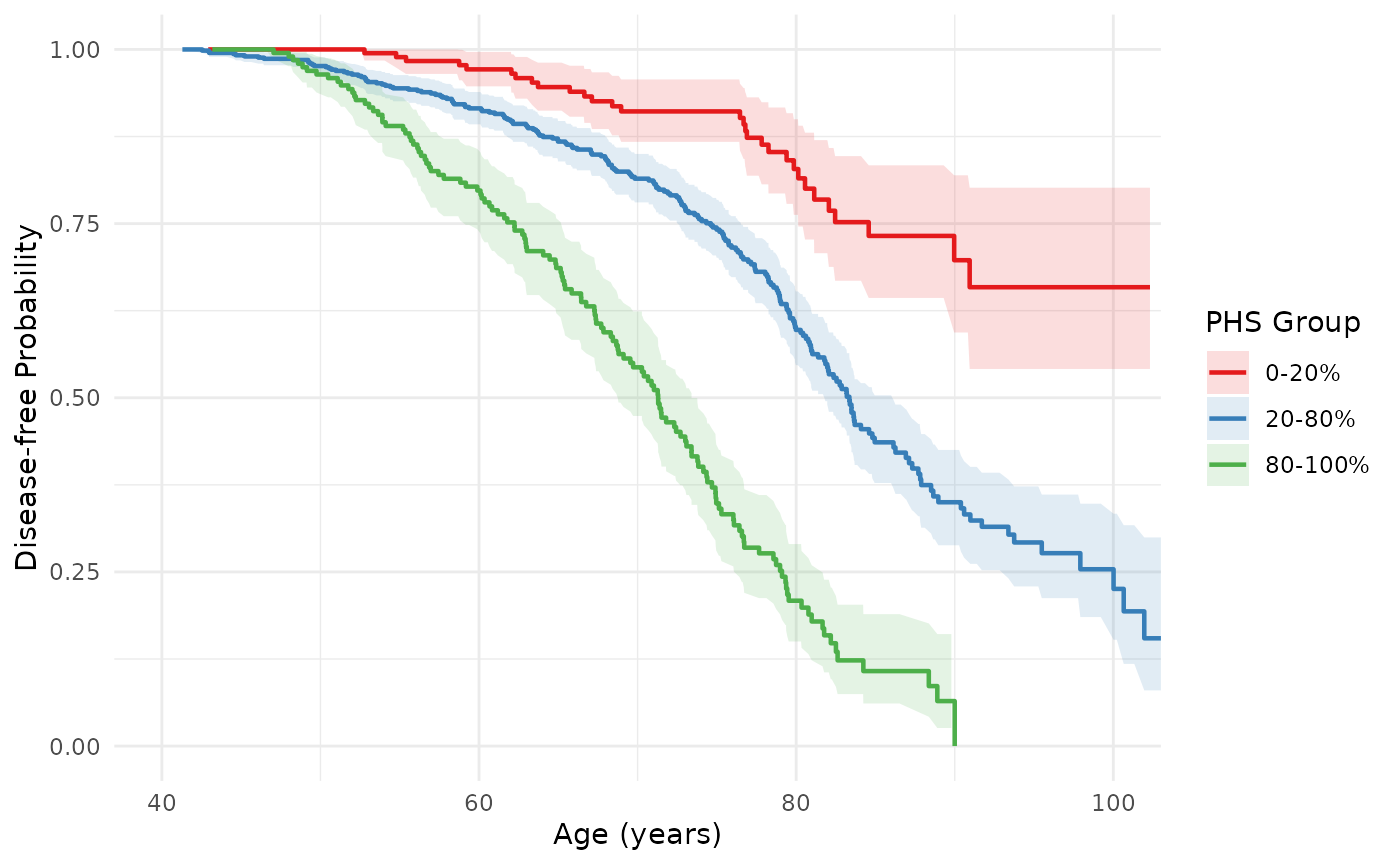
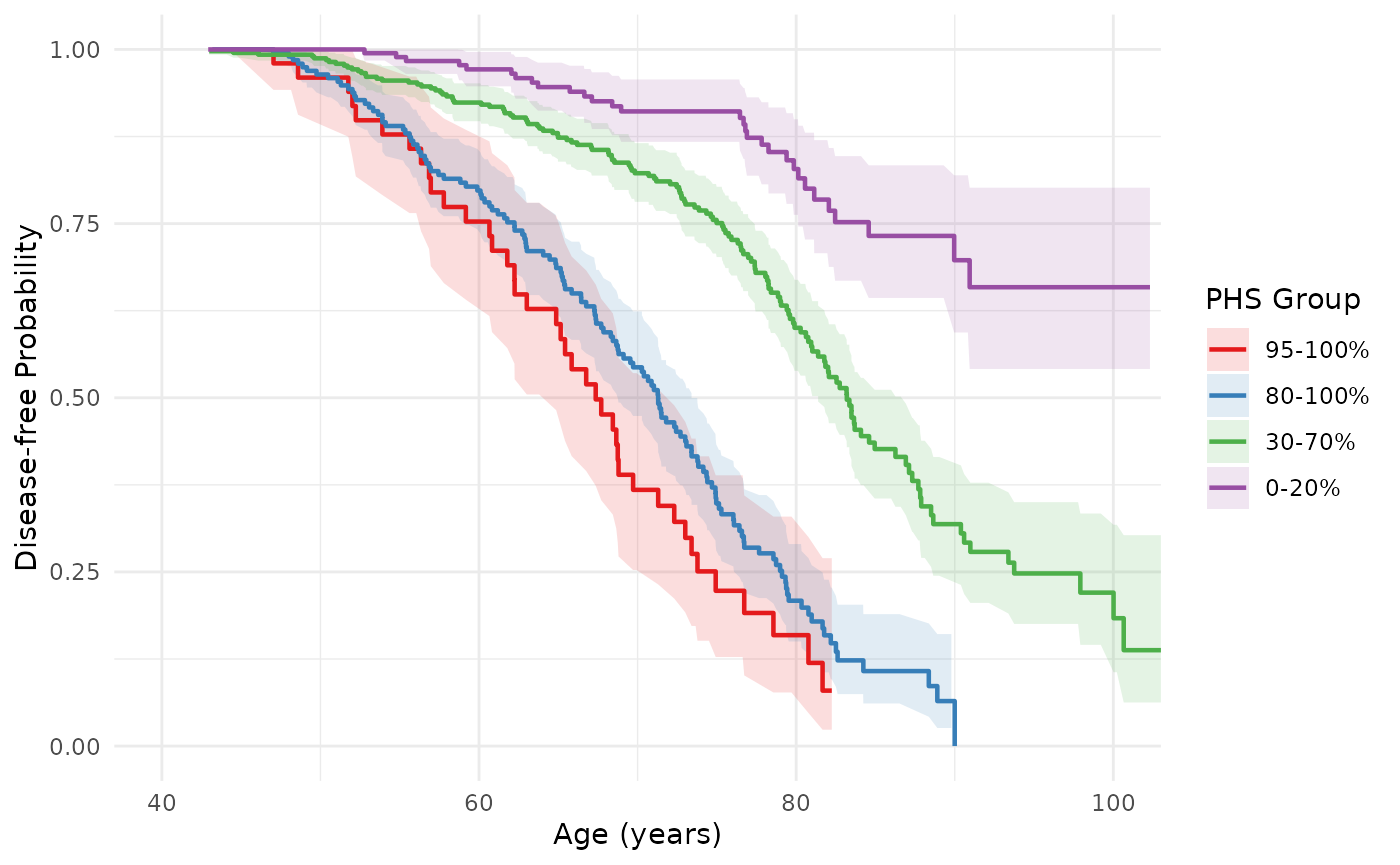
Deploying to gh-pages from @ amorris28/hazrd@0643f386ae270f6941bc75a752684a927d8e6229 🚀

diff --git a/index.html b/index.html
@@ -57,20 +57,20 @@
 <h2 id="installation">Installation<a class="anchor" aria-label="anchor" href="#installation"></a>
 </h2>
 <div class="section level3">
-<h3 id="github">Github<a class="anchor" aria-label="anchor" href="#github"></a>
+<h3 id="latest-release">Latest release<a class="anchor" aria-label="anchor" href="#latest-release"></a>
 </h3>
-<p>To install the most recent release from Github, go to the <a href="https://github.com/amorris28/hazrd/releases" class="external-link">release</a> page, scroll down to Assets, and download the “Source code (tar.gz)” file. Then, in <code>R</code>, run:</p>
+<p>Install the current stable release directly from GitHub:</p>
 <div class="sourceCode" id="cb1"><pre class="downlit sourceCode r">
-<code class="sourceCode R"><span><span class="fu"><a href="https://rdrr.io/r/utils/install.packages.html" class="external-link">install.packages</a></span><span class="op">(</span><span class="st">"hazrd-0.2.0.tar.gz"</span>, repos <span class="op">=</span> <span class="cn">NULL</span>, type <span class="op">=</span> <span class="st">"source"</span><span class="op">)</span></span></code></pre></div>
+<code class="sourceCode R"><span><span class="co"># install.packages("devtools")</span></span>
+<span><span class="fu">devtools</span><span class="fu">::</span><span class="fu">install_github</span><span class="op">(</span><span class="st">"amorris28/hazrd"</span><span class="op">)</span></span></code></pre></div>
+<p>Installing from the default (<code>main</code>) branch is equivalent to installing the latest tagged release.</p>
 </div>
 <div class="section level3">
-<h3 id="using-devtools">Using <code>devtools</code>
-<a class="anchor" aria-label="anchor" href="#using-devtools"></a>
+<h3 id="development-version">Development version<a class="anchor" aria-label="anchor" href="#development-version"></a>
 </h3>
-<p>For the development version:</p>
-<div class="sourceCode" id="cb2"><pre class="sourceCode bash"><code class="sourceCode bash"><span id="cb2-1"><a href="#cb2-1" tabindex="-1"></a><span class="fu">git</span> clone git@github.com:amorris28/hazrd.git</span></code></pre></div>
-<div class="sourceCode" id="cb3"><pre class="downlit sourceCode r">
-<code class="sourceCode R"><span><span class="fu">devtools</span><span class="fu">::</span><span class="fu">install</span><span class="op">(</span><span class="st">"hazrd"</span><span class="op">)</span></span></code></pre></div>
+<p>To get the current development version (may contain unreleased features):</p>
+<div class="sourceCode" id="cb2"><pre class="downlit sourceCode r">
+<code class="sourceCode R"><span><span class="fu">devtools</span><span class="fu">::</span><span class="fu">install_github</span><span class="op">(</span><span class="st">"amorris28/hazrd@dev"</span><span class="op">)</span></span></code></pre></div>
 </div>
 </div>
 <div class="section level2">
@@ -81,7 +81,7 @@
 <div class="section level2">
 <h2 id="quick-example">Quick example<a class="anchor" aria-label="anchor" href="#quick-example"></a>
 </h2>
-<div class="sourceCode" id="cb4"><pre class="downlit sourceCode r">
+<div class="sourceCode" id="cb3"><pre class="downlit sourceCode r">
 <code class="sourceCode R"><span><span class="kw"><a href="https://rdrr.io/r/base/library.html" class="external-link">library</a></span><span class="op">(</span><span class="va"><a href="https://amorris28.github.io/hazrd/">hazrd</a></span><span class="op">)</span></span>
 <span></span>
 <span><span class="co"># Compute HR, C-index, OR, and HR_SD in one call</span></span>

diff --git a/news/index.html b/news/index.html
@@ -40,7 +40,9 @@
 <ul><li>
 <code><a href="../reference/phs_metrics.html">phs_metrics()</a></code> — single entry point for all discrimination metrics (HR, C-index, OR, HR_SD). Returns a tidy tibble with one row per metric. Supports built-in bootstrapping via <code><a href="https://rdrr.io/pkg/boot/man/boot.html" class="external-link">boot::boot()</a></code> with <code>"percentile"</code>, <code>"bca"</code>, and <code>"normal"</code> CI methods.</li>
 <li>
-<code>phs_km()</code> — Kaplan-Meier curves stratified by PHS percentile group. Returns a <code>ggplot</code> object by default (<code>output = "plot"</code>) or a tidy data frame (<code>output = "data"</code>). Includes seven stratification presets (<code>quantile_3</code>, <code>quantile_4</code>, <code>quantile_5</code>, <code>quantile_10</code>, <code>clinical</code>, <code>binary_80_20</code>, <code>binary_top_bottom</code>) and a <code>custom_cuts</code> override. Supports a <code>ref_data</code> argument for train/validation percentile workflows.</li>
+<code><a href="../reference/phs_km_curve.html">phs_km_curve()</a></code> — Kaplan-Meier curves stratified by PHS percentile group. Returns a <code>ggplot</code> object by default (<code>output = "plot"</code>) or a tidy data frame (<code>output = "data"</code>). Accepts an <code>intervals</code> list for overlapping strata (e.g. 95–100 %, 80–100 %) or a <code>breaks</code> vector for exclusive bins. Supports a <code>ref_data</code> argument for train/validation percentile workflows.</li>
+<li>
+<code><a href="../reference/phs_cox_curve.html">phs_cox_curve()</a></code> — Cox model-based survival curves at specified PHS percentiles. Fits a Cox PH model with <code>phs</code> as the sole predictor and returns smooth predicted curves at user-supplied percentile values. Supports <code>ref_data</code> for train/validation workflows.</li>
 </ul></div>
 <div class="section level3">
 <h3 id="deprecated-functions-0-2-0">Deprecated functions<a class="anchor" aria-label="anchor" href="#deprecated-functions-0-2-0"></a></h3>
@@ -58,7 +60,7 @@
 <code><a href="../reference/get_hrsd.html">get_hrsd()</a></code> → use <code>phs_metrics(data, metrics = "HR_SD")</code>
 </li>
 <li>
-<code><a href="../reference/km_curve.html">km_curve()</a></code> → use <code>phs_km()</code>
+<code><a href="../reference/km_curve.html">km_curve()</a></code> → use <code><a href="../reference/phs_km_curve.html">phs_km_curve()</a></code>
 </li>
 </ul></div>
 <div class="section level3">

diff --git a/articles/hazrd.html b/articles/hazrd.html
@@ -275,13 +275,13 @@ custom plot or pass the survival estimates on to further analysis:</p>
 <div class="sourceCode" id="cb12"><pre class="downlit sourceCode r">
 <code class="sourceCode R"><span><span class="va">km_data</span> <span class="op">&lt;-</span> <span class="fu"><a href="../reference/phs_km_curve.html">phs_km_curve</a></span><span class="op">(</span><span class="va">test_data</span>, output <span class="op">=</span> <span class="st">"data"</span><span class="op">)</span></span>
 <span><span class="fu"><a href="https://rdrr.io/r/utils/head.html" class="external-link">head</a></span><span class="op">(</span><span class="va">km_data</span><span class="op">)</span></span>
-<span><span class="co">#&gt;       time estimate conf.low conf.high n.risk n.event stratum</span></span>
-<span><span class="co">#&gt; 1 42.92288        1        1         1    199       0   0-20%</span></span>
-<span><span class="co">#&gt; 2 43.64664        1        1         1    198       0   0-20%</span></span>
-<span><span class="co">#&gt; 3 44.88269        1        1         1    197       0   0-20%</span></span>
-<span><span class="co">#&gt; 4 47.17180        1        1         1    196       0   0-20%</span></span>
-<span><span class="co">#&gt; 5 48.21010        1        1         1    195       0   0-20%</span></span>
-<span><span class="co">#&gt; 6 48.52730        1        1         1    194       0   0-20%</span></span></code></pre></div>
+<span><span class="co">#&gt;       time  estimate  conf.low conf.high n.risk n.event stratum</span></span>
+<span><span class="co">#&gt; 1 44.30748 1.0000000 1.0000000 1.0000000     51       0 95-100%</span></span>
+<span><span class="co">#&gt; 2 47.04070 0.9800000 0.9419529 1.0000000     50       1 95-100%</span></span>
+<span><span class="co">#&gt; 3 48.14581 0.9800000 0.9419529 1.0000000     49       0 95-100%</span></span>
+<span><span class="co">#&gt; 4 48.58741 0.9595833 0.9062444 1.0000000     48       1 95-100%</span></span>
+<span><span class="co">#&gt; 5 51.75902 0.9391667 0.8747578 1.0000000     47       1 95-100%</span></span>
+<span><span class="co">#&gt; 6 52.01547 0.9187500 0.8454998 0.9983463     46       1 95-100%</span></span></code></pre></div>
 <p>The returned data frame has columns <code>time</code>,
 <code>estimate</code>, <code>conf.low</code>, <code>conf.high</code>,
 <code>n.risk</code>, <code>n.event</code>, and <code>stratum</code>,

diff --git a/news/index.md b/news/index.md
@@ -10,13 +10,18 @@
   built-in bootstrapping via
   [`boot::boot()`](https://rdrr.io/pkg/boot/man/boot.html) with
   `"percentile"`, `"bca"`, and `"normal"` CI methods.
-- `phs_km()` — Kaplan-Meier curves stratified by PHS percentile group.
-  Returns a `ggplot` object by default (`output = "plot"`) or a tidy
-  data frame (`output = "data"`). Includes seven stratification presets
-  (`quantile_3`, `quantile_4`, `quantile_5`, `quantile_10`, `clinical`,
-  `binary_80_20`, `binary_top_bottom`) and a `custom_cuts` override.
-  Supports a `ref_data` argument for train/validation percentile
+- [`phs_km_curve()`](https://amorris28.github.io/hazrd/reference/phs_km_curve.md)
+  — Kaplan-Meier curves stratified by PHS percentile group. Returns a
+  `ggplot` object by default (`output = "plot"`) or a tidy data frame
+  (`output = "data"`). Accepts an `intervals` list for overlapping
+  strata (e.g. 95–100 %, 80–100 %) or a `breaks` vector for exclusive
+  bins. Supports a `ref_data` argument for train/validation percentile
   workflows.
+- [`phs_cox_curve()`](https://amorris28.github.io/hazrd/reference/phs_cox_curve.md)
+  — Cox model-based survival curves at specified PHS percentiles. Fits a
+  Cox PH model with `phs` as the sole predictor and returns smooth
+  predicted curves at user-supplied percentile values. Supports
+  `ref_data` for train/validation workflows.
 
 ### Deprecated functions
 
@@ -33,7 +38,8 @@ to the replacement call.
 - [`get_hrsd()`](https://amorris28.github.io/hazrd/reference/get_hrsd.md)
   → use `phs_metrics(data, metrics = "HR_SD")`
 - [`km_curve()`](https://amorris28.github.io/hazrd/reference/km_curve.md)
-  → use `phs_km()`
+  → use
+  [`phs_km_curve()`](https://amorris28.github.io/hazrd/reference/phs_km_curve.md)
 
 ### Removed functions
 

diff --git a/articles/hazrd.md b/articles/hazrd.md
@@ -233,13 +233,13 @@ the survival estimates on to further analysis:
 ``` r
 km_data <- phs_km_curve(test_data, output = "data")
 head(km_data)
-#>       time estimate conf.low conf.high n.risk n.event stratum
-#> 1 42.92288        1        1         1    199       0   0-20%
-#> 2 43.64664        1        1         1    198       0   0-20%
-#> 3 44.88269        1        1         1    197       0   0-20%
-#> 4 47.17180        1        1         1    196       0   0-20%
-#> 5 48.21010        1        1         1    195       0   0-20%
-#> 6 48.52730        1        1         1    194       0   0-20%
+#>       time  estimate  conf.low conf.high n.risk n.event stratum
+#> 1 44.30748 1.0000000 1.0000000 1.0000000     51       0 95-100%
+#> 2 47.04070 0.9800000 0.9419529 1.0000000     50       1 95-100%
+#> 3 48.14581 0.9800000 0.9419529 1.0000000     49       0 95-100%
+#> 4 48.58741 0.9595833 0.9062444 1.0000000     48       1 95-100%
+#> 5 51.75902 0.9391667 0.8747578 1.0000000     47       1 95-100%
+#> 6 52.01547 0.9187500 0.8454998 0.9983463     46       1 95-100%
 ```
 
 The returned data frame has columns `time`, `estimate`, `conf.low`,

diff --git a/index.md b/index.md
@@ -7,27 +7,25 @@ intervals, and Kaplan-Meier curves.
 
 ## Installation
 
-### Github
+### Latest release
 
-To install the most recent release from Github, go to the
-[release](https://github.com/amorris28/hazrd/releases) page, scroll down
-to Assets, and download the “Source code (tar.gz)” file. Then, in `R`,
-run:
+Install the current stable release directly from GitHub:
 
 ``` r
-install.packages("hazrd-0.2.0.tar.gz", repos = NULL, type = "source")
+# install.packages("devtools")
+devtools::install_github("amorris28/hazrd")
 ```
 
-### Using `devtools`
+Installing from the default (`main`) branch is equivalent to installing
+the latest tagged release.
 
-For the development version:
+### Development version
 
-``` bash
-git clone git@github.com:amorris28/hazrd.git
-```
+To get the current development version (may contain unreleased
+features):
 
 ``` r
-devtools::install("hazrd")
+devtools::install_github("amorris28/hazrd@dev")
 ```
 
 ## Getting started
